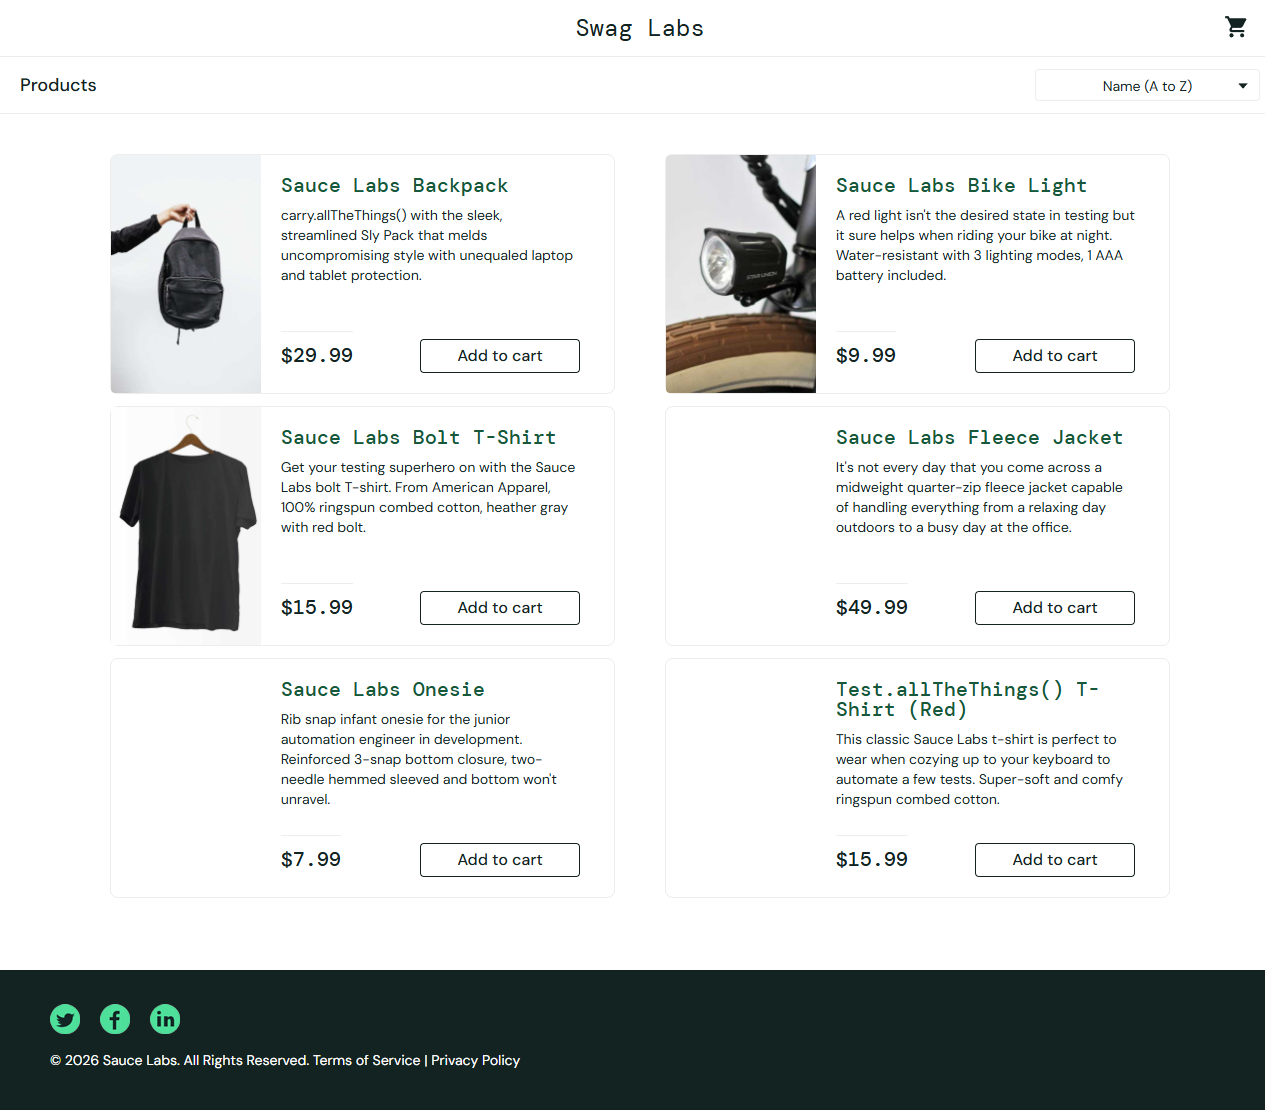
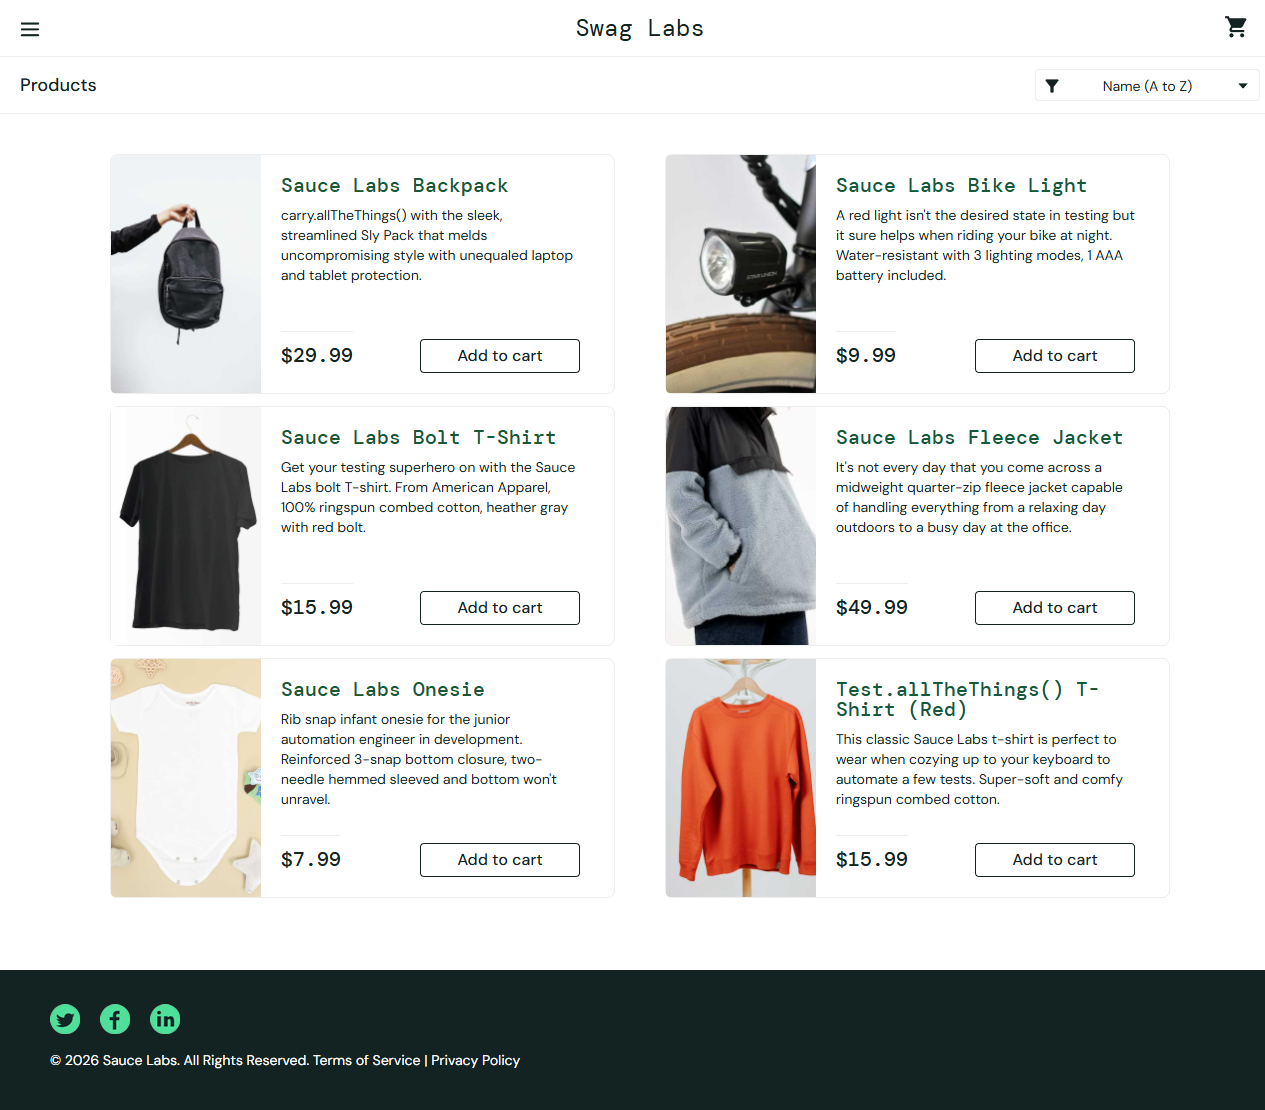
node version updated and login function is imported instead of const

Changed region(s): [[0.5241, 0.3676, 0.6474, 0.827], [0.0617, 0.582, 0.2158, 0.827]]

diff --git a/tests/mytests.spec.js b/tests/mytests.spec.js
@@ -1,5 +1,5 @@
 const { test, expect } = require('@playwright/test');
-const { login } = require("./testutils");
+import {login} from "./testutils";
 
 test.beforeAll("Setup", async () => {
     console.log("Starting execution")